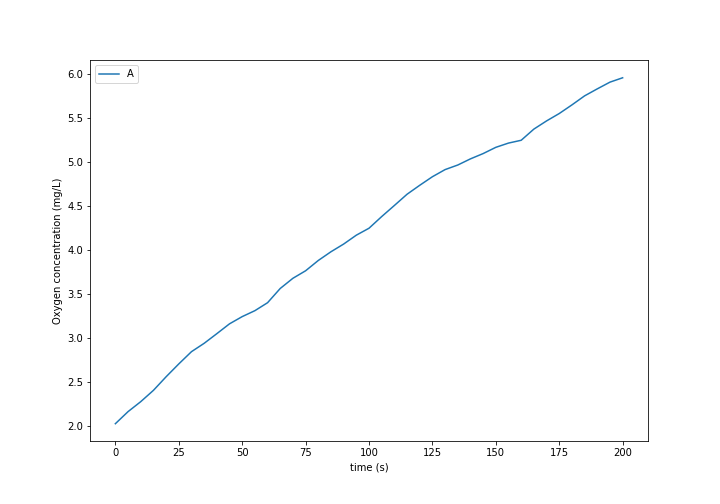
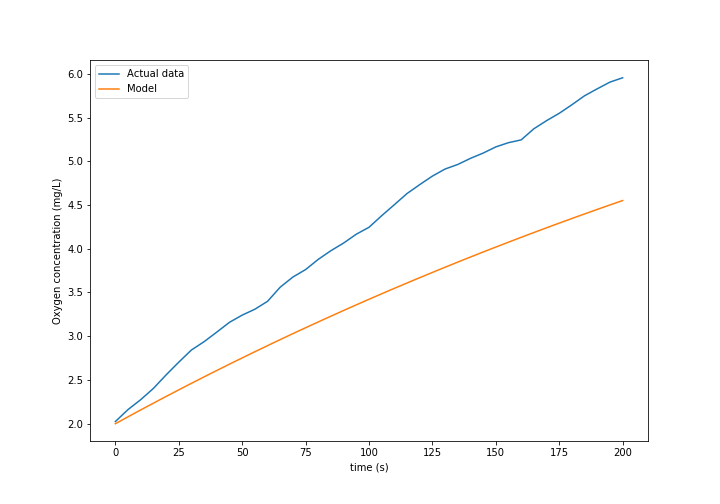
asd

diff --git a/Lab4/team10_lab4.md b/Lab4/team10_lab4.md
@@ -35,23 +35,37 @@ $$ C = C^{* } - (C^{* } - C_0)e^{-\hat{k}_{v,l}\text{ }t} $$
 
 Given that C* and C<sub>0</sub> are constants, and k̂<sub>v,l</sub> was previously estimated, the above rearrangement can be used. We will be using the airflow at 225.0 µmol/s as the representative plot.
 
+![DO](https://raw.githubusercontent.com/lw583/CEE4530/master/Lab4/model.png)
+
+Figure 2: Plots of dissolved oxygen against time for airflows of 100, 225, 525, 700 and 925 µmol/s. As airflow increases, less time is taken to reach saturated oxygen level. Each curve appears to be in a logarithmic-like shape, but lower airflows result in more linear-like shapes.
+
 ```python
 C_model = np.zeros(airflows.size)
-for i in range(airflows.size):
-  C_model[i] = C_star-(C_star-C_0)*np.exp((-k[4]*time_data[4][i]).magnitude + np.log((C_star - C_0).magnitude))
+for i in range(len(time_data)):
+  C = C_star-(C_star-C_0)*np.exp((-k[4]*time_data[4][i]).magnitude)
+  C_model[i] = C.magnitude
 
+t_model = np.linspace(0,max(time_data[4]),len(C_model))
 plt.figure('ax',(10,7))
 plt.plot(time_data[4], DO_data[4],'-')
-plt.plot(time_data[4], C_model,'-')
+plt.plot(t_model, C_model)
 plt.xlabel(r'time (s)')
 plt.ylabel(r'Oxygen concentration (mg/L)')
-leg = plt.legend('Actual data', loc='best')
+leg = plt.legend(('Actual data', 'Model'), loc='best')
 plt.savefig('Lab4/model.png')
 plt.show()
 ```
 
 <b> 6. Plot k̂<sub>v,l</sub> as a function of airflow rate (μmol/s).</b>
 
+```python
+plt.figure('ax',(10,7))
+plt.plot(airflows, k_vl,'-')
+plt.xlabel(r'Airflow rate(μmol/s)')
+plt.ylabel(r'k_v,l')
+plt.savefig('Lab4/k_vl.png')
+plt.show()
+```
 Figure 2: Plots of k̂<sub>v,l</sub> against airflow rate for airflows of 100, 225, 525, 700 and 925 µmol/s.
 
 <b> 7. Plot OTE as a function of airflow rate (μmol/s) with the oxygen deficit (C⋆−C) set at 6 mg/L.</b>
@@ -59,6 +73,16 @@ Figure 2: Plots of k̂<sub>v,l</sub> against airflow rate for airflows of 100, 2
 The oxygen transfer efficiency can be calculated using the equation
 $$OTE=\frac{\hat{k}_{v,l} \left(C^{* } -C\right)VRT}{MW_{O_{2} } Q_{air} P_{air} f_{O_{2} }}$$
 
+```python
+R = 8.314*u.Joules/(u.g*u.mol*u.Kelvin)
+OTE = (k_vl*(C_star-C)*V*R*T)/(MW_O2*Q_air*P_air*f_O2)
+plt.figure('ax',(10,7))
+plt.plot(, OTE,'-')
+plt.xlabel(r'Airflow rate(μmol/s)')
+plt.ylabel(r'OTE')
+plt.savefig('Lab4/OTE.png')
+plt.show()
+```
 
 Figure 3: Plots of dissolved oxygen transfer efficiency against airflow rate for airflows of 100, 225, 525, 700 and 925 µmol/s.
 
@@ -235,6 +259,5 @@ k = k_vl / u.sec
 # Question 6
 
 # Question 7
-R = 8.314*u.
-OTE = (k_vl*(C_star-C)*V*R*T)/()
+
 ```
